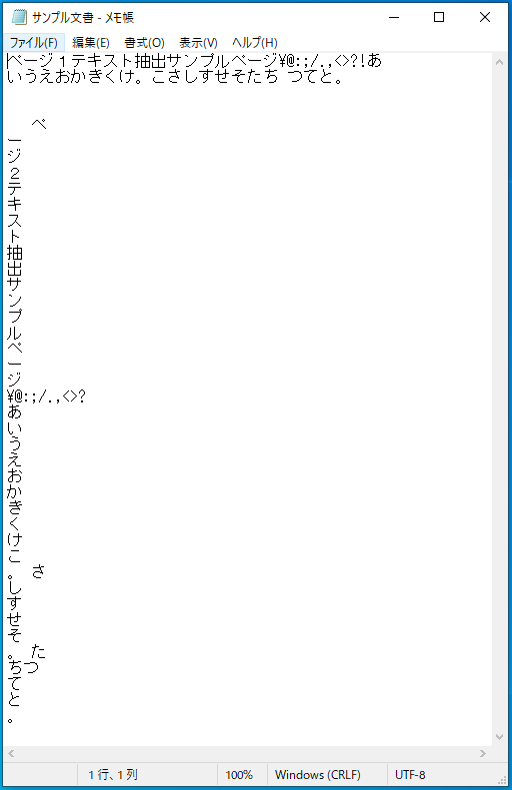
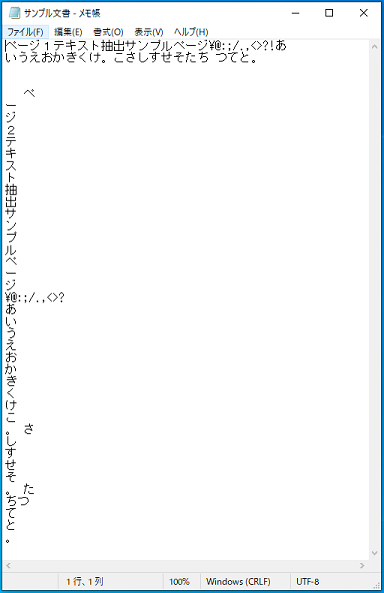
0220 21:01

diff --git a/_posts/2023-02-10-pdf_extract_text_by_pypdf2.md b/_posts/2023-02-10-pdf_extract_text_by_pypdf2.md
@@ -41,9 +41,8 @@ excerpt_separator: <!--more-->
 
 #### Input 及び Output file
 
-サンプルコードでは、このPDF（サンプル文書.pdf ）をプログラムと同じ
-ディレクトリ配下に配置しています。
-PDFから抽出したtxt ファイル（サンプル文書.txt）も同じフォルダ配下に書き出します。
+サンプルコードでは、PDF（サンプル文書.pdf ）をプログラムと同じディレクトリ配下に配置しています。
+PDFから抽出したtxtファイル（サンプル文書.txt）も同じフォルダ配下に書き出すこととします。
 
 ---
 ### サンプルコード
@@ -74,19 +73,19 @@ with open("サンプル文書.txt", "w", encoding ="utf_8", errors="ignore") as 
 
 ### 各ステップの説明
 
-For ループで各ページ毎にテキストデータを抽出します。
-抽出した内容は、リスト形式で格納します。
+For ループで各ページ毎にテキストデータを抽出します。抽出した内容は、`[‘page1’, ‘page2’, ,,,,’pageEnd’]`という
+リスト形式で格納します。
 
-1. `PyPDF2` から`PdfReader` をインポートします
-2. `PdfReader` を使ってターゲットの"サンプル文書.pdf"を読み込み、`reader` というオブジェクトに格納します
-3. PDFの各ページのテキストデータをページ毎に`all_text` というリスト形式に格納するため、まず初期化します
-4. ページ数を `len(reader.page)`で求め、その値（今回は2）を変数 `number_of_pages`に格納します
-5. 変数 iでページ数までのFor ループを宣言し、各ページについて以下の事を行います
-    1. `reader.page[i]` ：最初のページから１ページずつ`page` というオブジェクトに格納します
-    2. `page` オブジェクトからテキストを抽出して、`output` という変数に格納します
-    3. `output` (pdf のテキスト）を `all_text` に`append` でリストの要素を追加します
-    4. `[‘page1’, ‘page2’, ,,,,’pageEnd’]`  という感じで `all_text` 出来上がります。　ちなみに今回は２ページです。
-6. `s = ''.join(all_text)` でリスト形式で追加された `all_text` をひとつにまとめてその変数を`s`とします
+1. `PyPDF2` から`PdfReader` をインポートします。 `PyPDF2`を予め`PIPコマンド`でインストールしておく必要があります。
+2. `PdfReader` を使ってターゲットの"サンプル文書.pdf"を読み込み、`reader` というオブジェクトに格納します。
+3. PDFの各ページのテキストデータをページ毎に`all_text` というリスト形式に格納するため、初期化します。
+4. ページ数を `len(reader.page)`で求め、その値（今回は2）を変数 `number_of_pages`に格納します。
+5. 変数 iでページ数までのFor ループを宣言し、各ページについて以下の事を行います。
+    1. `reader.page[i]` ：最初のページから１ページずつ`page` というオブジェクトに格納します。
+    2. `page` オブジェクトからテキストを抽出して、`output` という変数に格納します。
+    3. `output` (pdf のテキスト）を `all_text` に`append` でリストの要素を追加します。
+    4. `[‘page1’, ‘page2’, ,,,,’pageEnd’]`  という感じで `all_text` が出来上がります。今回は２ページです。
+6. `s = ''.join(all_text)` でリスト形式で追加された `all_text` をひとつにまとめてその変数を`s`とします。
 7. `with open` で"サンプル文書.txt"というテキストファイルを定義して、オプション`"w"` でファイルを上書き作成します。
 
 ### 抽出したテキストファイル
@@ -95,9 +94,8 @@ For ループで各ページ毎にテキストデータを抽出します。
 
 ![2page_pdf_sample]({{ "assets/img/2020_08_15/pdffig2.png" | relative_url}})<br>
 
-
 >
-`[ここがポイント！]`{:style="color: blue; font-size: 1.3em"} 
+`[ここがポイント！]`{:style="color: blue; font-size: 1.3em; background-color: #ffe3e2"} 
 1. ワードで作成された縦書きなどの文字には各文字に
 改行キーを入れて実現しているため、テキストのみを抽出した場合、文字ごとに改行がついた状態になります。
 2.  `[‘page1’, ‘page2’, ,,,,’pageEnd’]`  というリスト形式でのテキスト化では、改行キー`\n`がテキストとして出現し、改行されません。
@@ -132,26 +130,25 @@ for file in files:
 
 {% endhighlight %}
 
-1. `PyPDF2` から`PdfReader` をインポートします
-2. `os`, `glob`, `sys` をインポートします。これらは、標準ライブラリです。   pip でインストール不要です
+1. `PyPDF2` から`PdfReader` をインポートします。
+2. `os`, `glob`, `sys` をインポートします。これらは、標準ライブラリですので、pip でインストール不要です。
 3. `file_path` という変数名でテキスト化したいPdfが設置されているディレクトリを指定します。
 4. `files` という変数に拡張子が pdf のファイルのみ順次読み込みます。
-5. `for file in files` で`files` で読み込まれたそれぞれの pdf file である`file`に対してfor ループ処理をします 
+5. `for file in files` で`files` で読み込まれたそれぞれの pdf file である`file`に対してfor ループ処理をします。 
 6. `PdfReader` を使ってターゲットの"サンプル文書.pdf"を読み込み、`reader` というオブジェクトに格納します（前半と同じですね）
 7. ページ数を `len(reader.page)`で求め、その値（今回は2）を変数 `count`に格納します (前半のコードと変数名変えています！)
-8. PDFの各ページのテキストデータをページ毎に`all_text` というリスト形式に格納するため、まず初期化します
-9. 変数 iでページ数までのFor ループを宣言し、各ページについて以下の事を行います
-    1. `reader.page[i]` ：最初のページから１ページずつ`page` というオブジェクトに格納します
-    2. `page` オブジェクトからテキストを抽出して、`output` という変数に格納します
-    3. `output` (pdf のテキスト）を `all_text` に`append` でリストの要素を追加します
-    4. `[‘page1’, ‘page2’, ,,,,’pageEnd’]`  という感じで `all_text` 出来上がります。　ちなみに今回もいずれも２ページです。
-10. `newoutput = ''.join(all_text)` でリスト形式で追加された `all_text` をひとつにまとめてその変数を`newoutput`とします
+8. PDFの各ページのテキストデータをページ毎に`all_text` というリスト形式に格納するため、まず初期化します。
+9. 変数 iでページ数までのFor ループを宣言し、各ページについて以下の事を行います。
+    1. `reader.page[i]` ：最初のページから１ページずつ`page` というオブジェクトに格納します。
+    2. `page` オブジェクトからテキストを抽出して、`output` という変数に格納します。
+    3. `output` (pdf のテキスト）を `all_text` に`append` でリストの要素を追加します。
+    4. `[‘page1’, ‘page2’, ,,,,’pageEnd’]`  という感じで `all_text` 出来上がります。今回はいずれも２ページです。
+10. `newoutput = ''.join(all_text)` でリスト形式で追加された `all_text` をひとつにまとめてその変数を`newoutput`とします。
 11. `with open` で"サンプル文書.txt"というテキストファイルを定義して、オプション`"a"` でファイルに追加し行きます。
-12. ファイルに書き込むにあたり、改行と******** を前後に付けてファイル名を代入しています。これでどのファイルをテキスト化したかが容易に判別できます・
-
+12. ファイルに書き込むにあたり、改行と******** を前後に付けてファイル名を代入しています。これでどのファイルをテキスト化したかが容易に判別できます。
 
 >
-`[ここがポイント！＜その２＞]`{:style="color: blue; font-size: 1.3em"} 
+`[ここがポイント！＜その２＞]`{:style="color: blue; font-size: 1.3em; background-color: #ffe3e2"} 
 1. For ループを二つ入れ子（いわゆる多重ループ）で回しています。Glob でファイルの順次読み込みをしたら、そのファイルに対して各ページも順に読み込みテキスト化します
 2. 多重ループなのか、単純にFor ループは二つそれぞれあるかを区別させるため、Python ではインデントで識別しています
 3. 今回は多重ループなので、インデントが二つ奥に入り込んでいます
@@ -166,4 +163,5 @@ for file in files:
 >
 1) [PyPDF2](https://pypi.org/project/PyPDF2/3.0.1/){:target="_blank"}<br>
 2) [KH Coder で複合語をコントロールしてWordCloudを作成する](https://www.so-wi.com/2022/05/15/khcoder_wordcloud_make.html){:target="_blank"}<br>
+3) [globによるファイルの順次読み込みと特定文字列のカウント](https://www.so-wi.com/2021/04/14/all_log_read_under_dir_to_count_download.html){:target="_blank"}<br>
 {:style="border-color: #5f564d; border-top-color: #5f564d; font-size: 1.0em; background-color: #f5f5dc;"}
